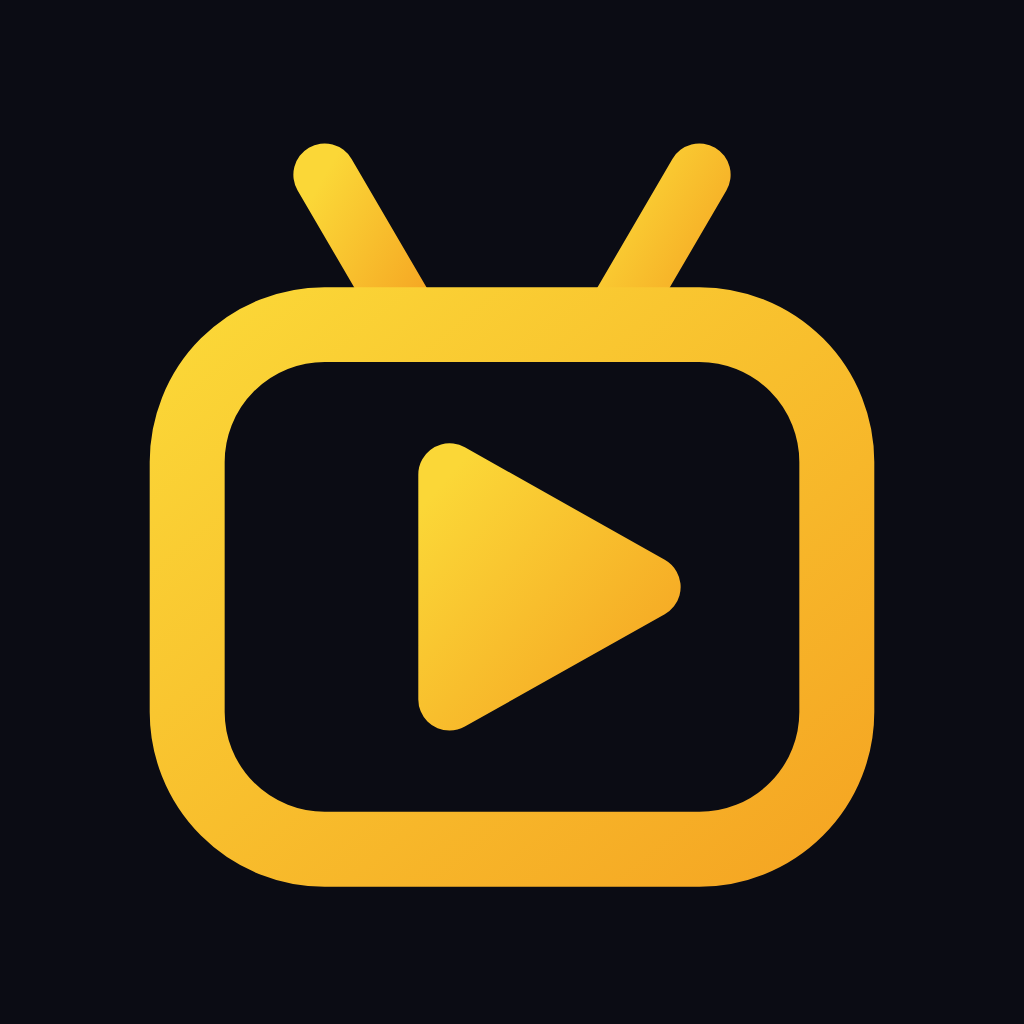
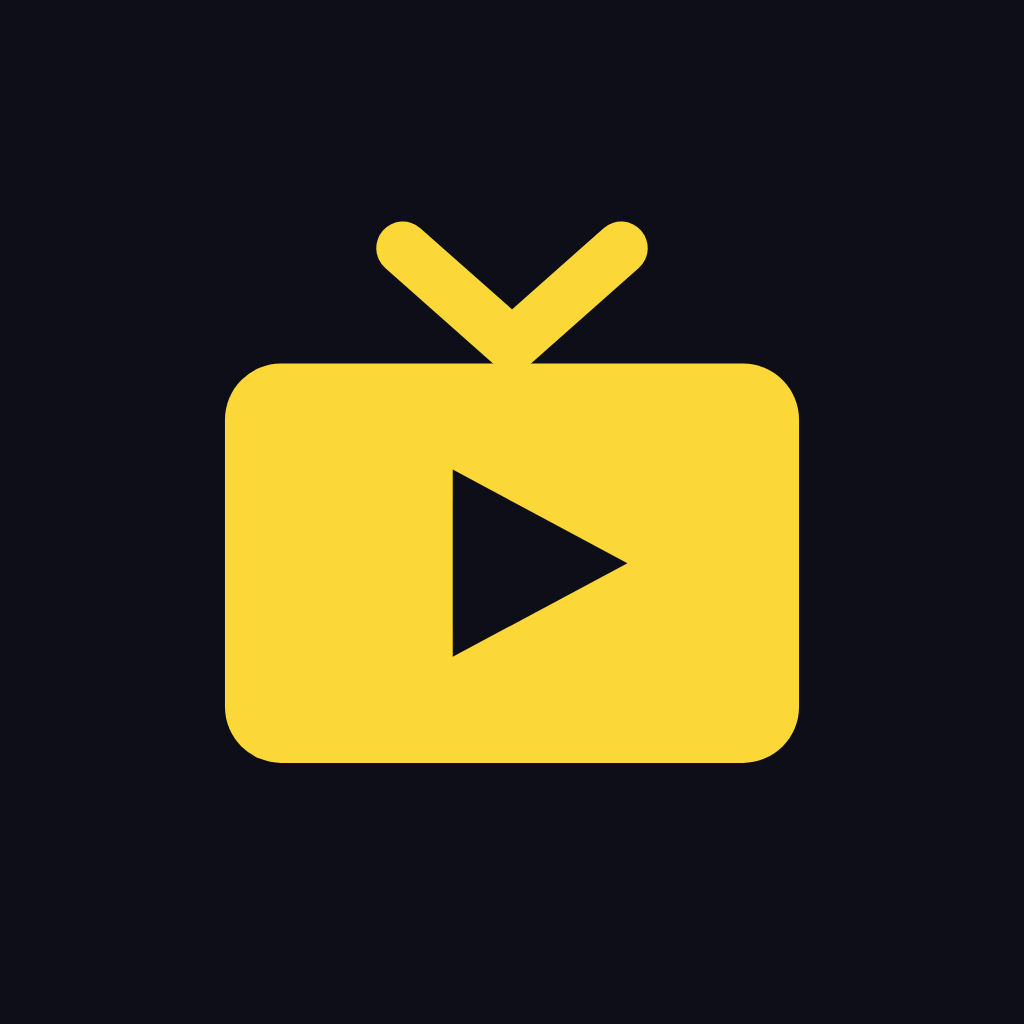
Bring back the original solid-yellow TV mark
The "Little TV" outline icon replaced a mark that read better, so this puts
the original back: 8af46c1's artwork, unchanged, with the one defect it
shipped with removed.

That defect is a rasterizer accident, not a design choice — 87 pure-white
rows across the bottom 8.5% of the 1024 square. It is safe to fill rather
than re-render, because the same band exists on the later icon and the fixed
and unfixed copies of that one are byte-identical above row 937: the band
only ever covered empty background.

The native asset catalogs are regenerated too, and they were wrong
independently of this change. mobile/ios/.../AppIcon.appiconset was generated
before that fix and never regenerated after it, so the white band is what
every TestFlight build so far has actually shown on the home screen — the fix
only ever reached mobile/assets/icon.png, which Xcode Cloud does not read.

Splash and widget icons derive from the same 1024 master. The splash keeps
Expo's own 624x641 footprint, and its transparency is solved out of the flat
two-colour artwork (every pixel is a blend of exactly two known colours, so
the blend factor is the alpha) rather than re-drawn, which keeps the
antialiased edges exact.

The site's inline SVG is re-authored from measurements taken off the raster —
body rect, corner radius, antenna endpoints and stroke, triangle vertices —
so the vector and the icon are the same mark rather than two drawings of it.
[…]

diff --git a/site/terms/index.html b/site/terms/index.html
@@ -6,8 +6,8 @@
   content="The Terms of Use for TV App, the iPhone app by Monty Inc: who may use it, the rules for posting, the zero-tolerance policy for objectionable content, reporting and blocking, and our 24-hour commitment."
 />
 <meta name="theme-color" content="#0b0c14" />
-<link rel="icon" href="../assets/favicon.png" />
-<link rel="apple-touch-icon" href="../assets/icon-192.png" />
+<link rel="icon" href="../assets/favicon.png?v=2" />
+<link rel="apple-touch-icon" href="../assets/icon-192.png?v=2" />
 <link rel="stylesheet" href="../assets/style.css?v=9" />
 
 <a class="skip" href="#main">Skip to content</a>
@@ -16,16 +16,9 @@
   <header class="masthead">
     <a class="brand" href="../" aria-label="TV App home">
       <svg viewBox="0 0 100 100" aria-hidden="true">
-        <defs>
-          <linearGradient id="g" x1="0" y1="0" x2="1" y2="1">
-            <stop offset="0" stop-color="#fbd737" />
-            <stop offset="1" stop-color="#f5a623" />
-          </linearGradient>
-        </defs>
-        <line x1="42" y1="34" x2="35" y2="22" stroke="url(#g)" stroke-width="5" stroke-linecap="round" />
-        <line x1="58" y1="34" x2="65" y2="22" stroke="url(#g)" stroke-width="5" stroke-linecap="round" />
-        <rect x="24" y="34" width="52" height="42" rx="11" fill="none" stroke="url(#g)" stroke-width="6" />
-        <path d="M45 46 L45 64 L61 55 Z" fill="url(#g)" stroke="url(#g)" stroke-width="5" stroke-linejoin="round" />
+        <path d="M38.4 23.3 50 33.6 61.6 23.3" fill="none" stroke="#fbd737" stroke-width="5.1" stroke-linecap="round" stroke-linejoin="round" />
+        <rect x="21.9" y="35.5" width="56.2" height="39" rx="5.5" fill="#fbd737" />
+        <path d="M44.2 45.9 61.1 55 44.2 64.1Z" fill="#0b0c14" />
       </svg>
       TV App
     </a>

diff --git a/site/support/index.html b/site/support/index.html
@@ -6,8 +6,8 @@
   content="Help for TV App: how to reach us, plus answers on accounts, watch history, rewatches, friends, notifications, importing, backups, deleting your account and reporting abuse."
 />
 <meta name="theme-color" content="#0b0c14" />
-<link rel="icon" href="../assets/favicon.png" />
-<link rel="apple-touch-icon" href="../assets/icon-192.png" />
+<link rel="icon" href="../assets/favicon.png?v=2" />
+<link rel="apple-touch-icon" href="../assets/icon-192.png?v=2" />
 <link rel="stylesheet" href="../assets/style.css?v=9" />
 
 <a class="skip" href="#main">Skip to content</a>
@@ -16,16 +16,9 @@
   <header class="masthead">
     <a class="brand" href="../" aria-label="TV App home">
       <svg viewBox="0 0 100 100" aria-hidden="true">
-        <defs>
-          <linearGradient id="g" x1="0" y1="0" x2="1" y2="1">
-            <stop offset="0" stop-color="#fbd737" />
-            <stop offset="1" stop-color="#f5a623" />
-          </linearGradient>
-        </defs>
-        <line x1="42" y1="34" x2="35" y2="22" stroke="url(#g)" stroke-width="5" stroke-linecap="round" />
-        <line x1="58" y1="34" x2="65" y2="22" stroke="url(#g)" stroke-width="5" stroke-linecap="round" />
-        <rect x="24" y="34" width="52" height="42" rx="11" fill="none" stroke="url(#g)" stroke-width="6" />
-        <path d="M45 46 L45 64 L61 55 Z" fill="url(#g)" stroke="url(#g)" stroke-width="5" stroke-linejoin="round" />
+        <path d="M38.4 23.3 50 33.6 61.6 23.3" fill="none" stroke="#fbd737" stroke-width="5.1" stroke-linecap="round" stroke-linejoin="round" />
+        <rect x="21.9" y="35.5" width="56.2" height="39" rx="5.5" fill="#fbd737" />
+        <path d="M44.2 45.9 61.1 55 44.2 64.1Z" fill="#0b0c14" />
       </svg>
       TV App
     </a>

diff --git a/site/privacy/index.html b/site/privacy/index.html
@@ -6,8 +6,8 @@
   content="How TV App handles your data: your library stays on your iPhone, signing in is optional, and there is no analytics, advertising or tracking of any kind."
 />
 <meta name="theme-color" content="#0b0c14" />
-<link rel="icon" href="../assets/favicon.png" />
-<link rel="apple-touch-icon" href="../assets/icon-192.png" />
+<link rel="icon" href="../assets/favicon.png?v=2" />
+<link rel="apple-touch-icon" href="../assets/icon-192.png?v=2" />
 <link rel="stylesheet" href="../assets/style.css?v=9" />
 
 <a class="skip" href="#main">Skip to content</a>
@@ -16,16 +16,9 @@
   <header class="masthead">
     <a class="brand" href="../" aria-label="TV App home">
       <svg viewBox="0 0 100 100" aria-hidden="true">
-        <defs>
-          <linearGradient id="g" x1="0" y1="0" x2="1" y2="1">
-            <stop offset="0" stop-color="#fbd737" />
-            <stop offset="1" stop-color="#f5a623" />
-          </linearGradient>
-        </defs>
-        <line x1="42" y1="34" x2="35" y2="22" stroke="url(#g)" stroke-width="5" stroke-linecap="round" />
-        <line x1="58" y1="34" x2="65" y2="22" stroke="url(#g)" stroke-width="5" stroke-linecap="round" />
-        <rect x="24" y="34" width="52" height="42" rx="11" fill="none" stroke="url(#g)" stroke-width="6" />
-        <path d="M45 46 L45 64 L61 55 Z" fill="url(#g)" stroke="url(#g)" stroke-width="5" stroke-linejoin="round" />
+        <path d="M38.4 23.3 50 33.6 61.6 23.3" fill="none" stroke="#fbd737" stroke-width="5.1" stroke-linecap="round" stroke-linejoin="round" />
+        <rect x="21.9" y="35.5" width="56.2" height="39" rx="5.5" fill="#fbd737" />
+        <path d="M44.2 45.9 61.1 55 44.2 64.1Z" fill="#0b0c14" />
       </svg>
       TV App
     </a>

diff --git a/site/index.html b/site/index.html
@@ -6,8 +6,8 @@
   content="TV App is an iPhone app that tracks the TV shows, movies and documentaries you watch. Your library lives on your phone. The social part is optional."
 />
 <meta name="theme-color" content="#0b0c14" />
-<link rel="icon" href="assets/favicon.png" />
-<link rel="apple-touch-icon" href="assets/icon-192.png" />
+<link rel="icon" href="assets/favicon.png?v=2" />
+<link rel="apple-touch-icon" href="assets/icon-192.png?v=2" />
 <link rel="stylesheet" href="assets/style.css?v=9" />
 
 <meta property="og:type" content="website" />
@@ -35,16 +35,9 @@
   <header class="masthead">
     <a class="brand" href="./" aria-label="TV App home">
       <svg viewBox="0 0 100 100" aria-hidden="true">
-        <defs>
-          <linearGradient id="g" x1="0" y1="0" x2="1" y2="1">
-            <stop offset="0" stop-color="#fbd737" />
-            <stop offset="1" stop-color="#f5a623" />
-          </linearGradient>
-        </defs>
-        <line x1="42" y1="34" x2="35" y2="22" stroke="url(#g)" stroke-width="5" stroke-linecap="round" />
-        <line x1="58" y1="34" x2="65" y2="22" stroke="url(#g)" stroke-width="5" stroke-linecap="round" />
-        <rect x="24" y="34" width="52" height="42" rx="11" fill="none" stroke="url(#g)" stroke-width="6" />
-        <path d="M45 46 L45 64 L61 55 Z" fill="url(#g)" stroke="url(#g)" stroke-width="5" stroke-linejoin="round" />
+        <path d="M38.4 23.3 50 33.6 61.6 23.3" fill="none" stroke="#fbd737" stroke-width="5.1" stroke-linecap="round" stroke-linejoin="round" />
+        <rect x="21.9" y="35.5" width="56.2" height="39" rx="5.5" fill="#fbd737" />
+        <path d="M44.2 45.9 61.1 55 44.2 64.1Z" fill="#0b0c14" />
       </svg>
       TV App
     </a>

diff --git a/site/404.html b/site/404.html
@@ -3,7 +3,7 @@
 <title>TV App — page not found</title>
 <meta name="robots" content="noindex" />
 <meta name="theme-color" content="#0b0c14" />
-<link rel="icon" href="/assets/favicon.png" />
+<link rel="icon" href="/assets/favicon.png?v=2" />
 <link rel="stylesheet" href="/assets/style.css?v=9" />
 
 <!-- GitHub Pages serves this file for any unmatched path at any depth, so unlike
@@ -17,16 +17,9 @@
   <header class="masthead">
     <a class="brand" href="/" aria-label="TV App home">
       <svg viewBox="0 0 100 100" aria-hidden="true">
-        <defs>
-          <linearGradient id="g" x1="0" y1="0" x2="1" y2="1">
-            <stop offset="0" stop-color="#fbd737" />
-            <stop offset="1" stop-color="#f5a623" />
-          </linearGradient>
-        </defs>
-        <line x1="42" y1="34" x2="35" y2="22" stroke="url(#g)" stroke-width="5" stroke-linecap="round" />
-        <line x1="58" y1="34" x2="65" y2="22" stroke="url(#g)" stroke-width="5" stroke-linecap="round" />
-        <rect x="24" y="34" width="52" height="42" rx="11" fill="none" stroke="url(#g)" stroke-width="6" />
-        <path d="M45 46 L45 64 L61 55 Z" fill="url(#g)" stroke="url(#g)" stroke-width="5" stroke-linejoin="round" />
+        <path d="M38.4 23.3 50 33.6 61.6 23.3" fill="none" stroke="#fbd737" stroke-width="5.1" stroke-linecap="round" stroke-linejoin="round" />
+        <rect x="21.9" y="35.5" width="56.2" height="39" rx="5.5" fill="#fbd737" />
+        <path d="M44.2 45.9 61.1 55 44.2 64.1Z" fill="#0b0c14" />
       </svg>
       TV App
     </a>
